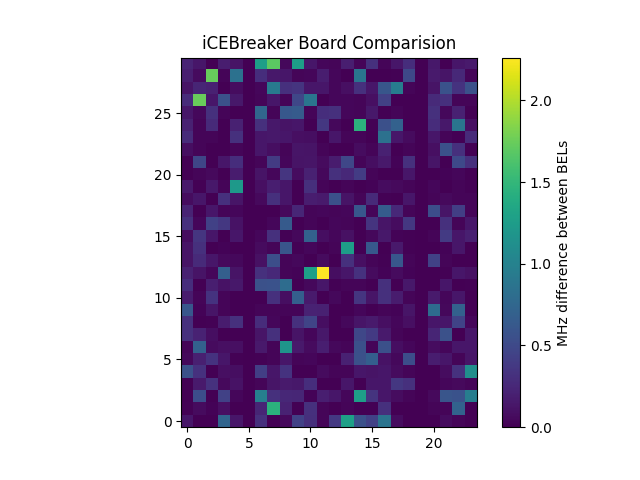
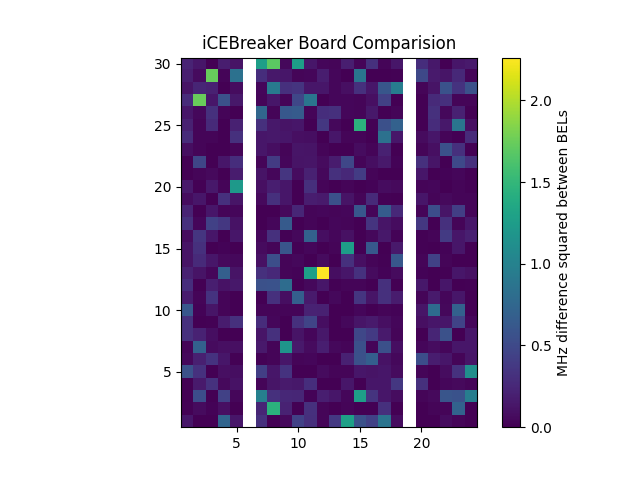
patched plots with rectangles

diff --git a/results/stats.py b/results/stats.py
@@ -2,6 +2,7 @@
 
 import statistics
 import matplotlib.pyplot as plt
+from matplotlib.patches import Rectangle
 import pandas as pd
 import numpy as np
 import json
@@ -40,20 +41,34 @@ def img_show(bel_means,mean,std,zscore=True):
         if 30==y:
             x+=1
             y=0
-    new_img=np.zeros((30,24),dtype=float)
-    new_img[:,0:5]=img[:,0:5]
-    new_img[:,6:19]=img[:,5:18]
-    new_img[:,20:]=img[:,18:]
-    graph=plt.imshow(new_img,interpolation='None',origin='lower')
+    new_img=np.zeros((31,25),dtype=float)
+    new_img[1:,1:6]=img[:,0:5]
+    new_img[1:,7:19]=img[:,5:17]
+    new_img[1:,20:]=img[:,17:]
+    fig,ax=plt.subplots()
+    graph=ax.imshow(new_img,interpolation='None',origin='lower')
+    ax.add_patch(Rectangle((5.55, -0.5), 1, 31,
+            edgecolor = 'black',
+            facecolor = 'white',
+            fill=True,
+            lw=0))
+    ax.add_patch(Rectangle((18.55, -0.5), 1, 31,
+            edgecolor = 'black',
+            facecolor = 'white',
+            fill=True,
+            lw=0))
+    ax.set_xlim(xmin=0.5)
+    ax.set_ylim(ymin=0.5)
     graph_colorbar=plt.colorbar(graph)
     if zscore:
         graph_colorbar.set_label('Z-Score')
     else:
-        graph_colorbar.set_label('MHz difference between BELs')
+        graph_colorbar.set_label('MHz difference squared between BELs')
     if zscore:
         plt.title('iCEBreaker FPGA BEL Variance', fontsize=12)
     else:
         plt.title('iCEBreaker Board Comparision', fontsize=12)
+    
     plt.show()
 
 def histogram(bel_means):
